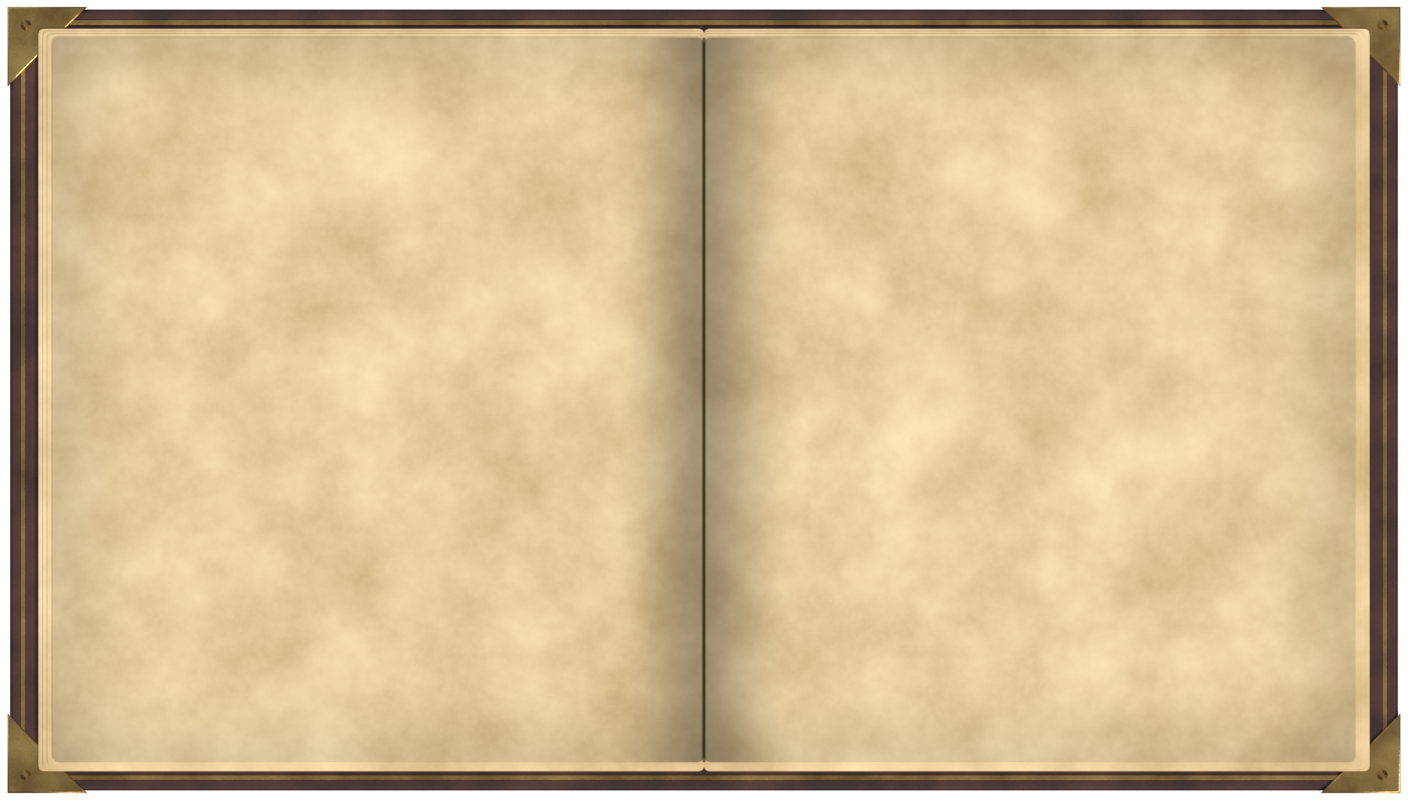
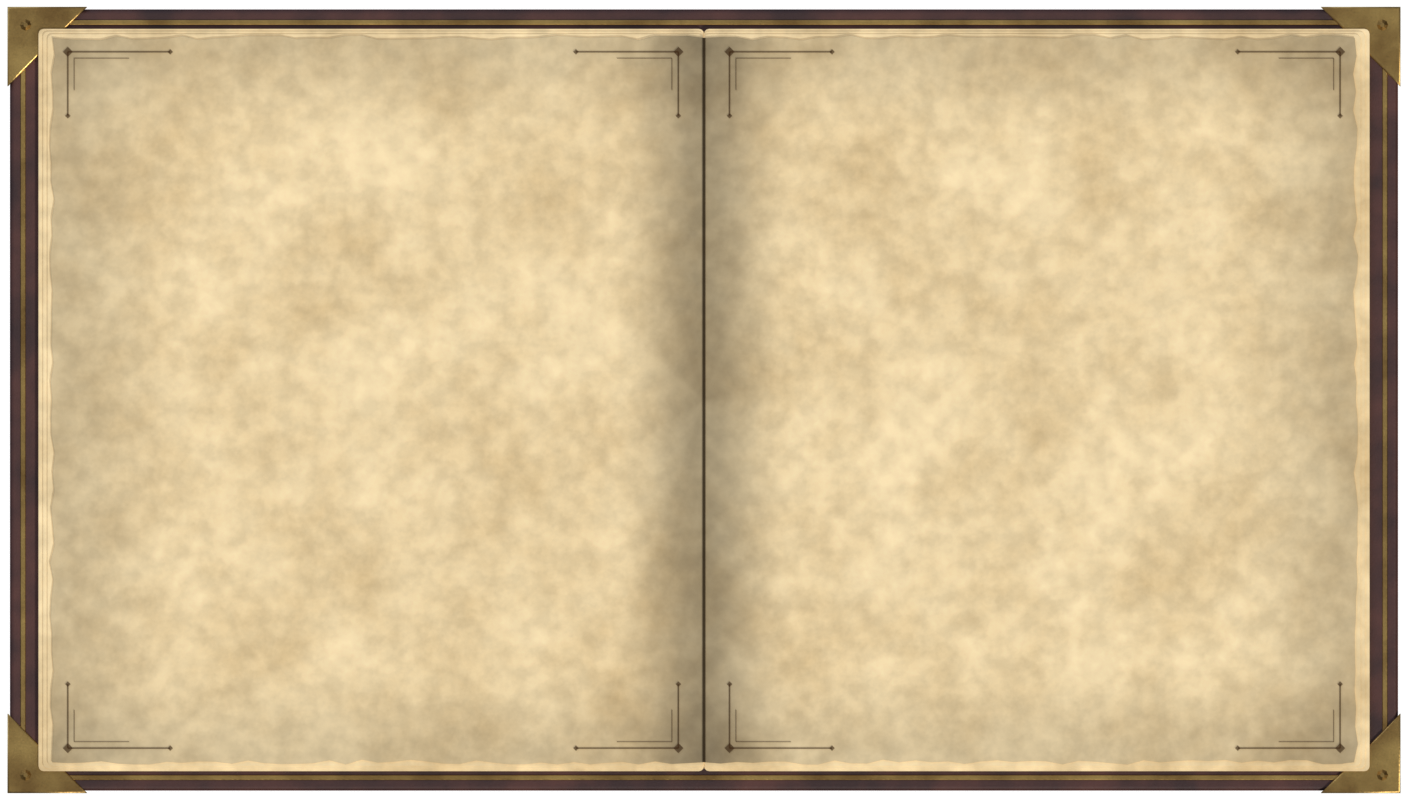
Grimório: pergaminho com bordas gastas e vinhetas; base da etapa 1

diff --git a/tools/blender/ui_kit.py b/tools/blender/ui_kit.py
@@ -4,6 +4,7 @@ de frente em PNG com fundo transparente. Ver docs/INTERFACE_GRIMORIO.md.
   blender --background --factory-startup --python tools/blender/ui_kit.py -- <pasta de saída>
 """
 import math
+import random
 import sys
 
 import bpy
@@ -234,18 +235,34 @@ def paper(name="paper", shade=True):
     stain.inputs["Roughness"].default_value = 0.65
     nt.links.new(tc.outputs["Object"], stain.inputs["Vector"])
     ramp = nt.nodes.new("ShaderNodeValToRGB")
-    ramp.color_ramp.elements[0].position = 0.3
+    ramp.color_ramp.elements[0].position = 0.22
     ramp.color_ramp.elements[0].color = (0.5, 0.34, 0.15, 1)
-    ramp.color_ramp.elements[1].position = 0.68
+    ramp.color_ramp.elements[1].position = 0.6
     ramp.color_ramp.elements[1].color = (0.78, 0.6, 0.33, 1)
     nt.links.new(stain.outputs["Fac"], ramp.inputs[0])
     col = ramp.outputs[0]
+    # segunda camada: manchas miúdas, como papel que pegou umidade
+    spots = nt.nodes.new("ShaderNodeTexNoise")
+    spots.inputs["Scale"].default_value = 6.0
+    spots.inputs["Detail"].default_value = 5
+    nt.links.new(tc.outputs["Object"], spots.inputs["Vector"])
+    sr = nt.nodes.new("ShaderNodeMapRange")
+    sr.inputs["From Min"].default_value = 0.35
+    sr.inputs["From Max"].default_value = 0.65
+    sr.inputs["To Min"].default_value = 0.82
+    sr.inputs["To Max"].default_value = 1.0
+    nt.links.new(spots.outputs["Fac"], sr.inputs["Value"])
+    sm = nt.nodes.new("ShaderNodeVectorMath")
+    sm.operation = "SCALE"
+    nt.links.new(col, sm.inputs[0])
+    nt.links.new(sr.outputs[0], sm.inputs["Scale"])
+    col = sm.outputs[0]
     if shade:
         # escurece junto da lombada e nas bordas da página
         sep = nt.nodes.new("ShaderNodeSeparateXYZ")
         nt.links.new(tc.outputs["Object"], sep.inputs[0])
         fac = None
-        for axis, lo, hi, a, bb in [("X", 0.0, 0.75, 0.42, 1.0), ("X", 4.3, 5.1, 1.0, 0.78), ("Y", 2.2, 2.85, 1.0, 0.8)]:
+        for axis, lo, hi, a, bb in [("X", 0.0, 0.75, 0.42, 1.0), ("X", 4.0, 5.1, 1.0, 0.7), ("Y", 2.0, 2.85, 1.0, 0.74)]:
             ab = nt.nodes.new("ShaderNodeMath")
             ab.operation = "ABSOLUTE"
             nt.links.new(sep.outputs[axis], ab.inputs[0])
@@ -282,6 +299,41 @@ def paper(name="paper", shade=True):
     return m
 
 
+def ragged(x0, y0, x1, y1, n=40, amp=0.02, seed=1):
+    """Retângulo de página com as bordas de fora irregulares (papel gasto); o lado da lombada (x0) é reto."""
+    rnd = random.Random(seed)
+    j = lambda: rnd.uniform(-amp, amp)
+    pts = [(x0, y0)]
+    pts += [(x0 + (x1 - x0) * i / n, y0 + j()) for i in range(1, n)]
+    pts += [(x1 + j(), y0 + (y1 - y0) * i / n) for i in range(n + 1)]
+    pts += [(x1 - (x1 - x0) * i / n, y1 + j()) for i in range(1, n)]
+    pts += [(x0, y1)]
+    return pts
+
+
+def stroke(a, b, w):
+    """Traço reto de largura w entre dois pontos."""
+    dx, dy = b[0] - a[0], b[1] - a[1]
+    ln = math.hypot(dx, dy)
+    nx, ny = -dy / ln * w * 0.5, dx / ln * w * 0.5
+    return [(a[0] + nx, a[1] + ny), (b[0] + nx, b[1] + ny), (b[0] - nx, b[1] - ny), (a[0] - nx, a[1] - ny)]
+
+
+def diamond(x, y, r):
+    return [(x - r, y), (x, y + r), (x + r, y), (x, y - r)]
+
+
+def vignette(cx, cy, dx, dy, ink):
+    """Cantoneira a tinta: dois traços saindo do canto (cx, cy) para dentro da página, com losangos."""
+    lx, ly = 0.8, 0.5
+    loops = [stroke((cx, cy), (cx + dx * lx, cy), 0.012), stroke((cx, cy), (cx, cy + dy * ly), 0.012),
+             stroke((cx + dx * 0.05, cy + dy * 0.05), (cx + dx * lx * 0.6, cy + dy * 0.05), 0.006),
+             stroke((cx + dx * 0.05, cy + dy * 0.05), (cx + dx * 0.05, cy + dy * ly * 0.6), 0.006),
+             diamond(cx, cy, 0.04), diamond(cx + dx * lx, cy, 0.022), diamond(cx, cy + dy * ly, 0.022)]
+    for i, lp in enumerate(loops):
+        shape("vig", [lp], ink, 0.158 + i * 0.0002, 0.003, 0.0)
+
+
 def cloth(name, base, dark, rough=0.7):
     m = metal(name, base, dark, 0.0, rough)
     return m
@@ -306,7 +358,12 @@ def book():
             hy = 2.9 - i * 0.02
             pts = rrect(0.0, -hy, x1, hy, 0.04, 3)
             shape("leaf", [xf(pts, sx=sx)], paper("paper_edge", False), 0.1 + i * 0.012, 0.012, 0.004)
-        shape("page", [xf(rrect(0.0, -2.83, 5.09, 2.83, 0.05, 3), sx=sx)], paper(), 0.14, 0.014, 0.005)
+        shape("page", [xf(ragged(0.0, -2.83, 5.09, 2.83, seed=3 if sx > 0 else 7), sx=sx)], paper(), 0.14, 0.014, 0.005)
+        # vinhetas nos quatro cantos da página, fora da área de conteúdo (margens de BookLayout)
+        ink = flat("ink", (0.05, 0.022, 0.008), 0.42)
+        for sy in (-1, 1):
+            vignette(sx * 4.97, sy * 2.72, -sx, -sy, ink)
+            vignette(sx * 0.2, sy * 2.72, sx, -sy, ink)
     shape("gutter", [rect(0.012, 2.83)], flat("gutter", (0.02, 0.012, 0.006), 0.55), 0.16, 0.004, 0.0)
     render("book")
 

diff --git a/docs/INTERFACE_GRIMORIO.md b/docs/INTERFACE_GRIMORIO.md
@@ -1,6 +1,6 @@
 # Interface "grimório" — o que aprendemos e plano de migração
 
-Estado em 14/11/2026, branch `ui-teste` (teste descartável, sem commit). O HUD de jogo fica como está.
+Estado em 14/11/2026, branch `ui-teste`: a base (etapa 1) está pronta; as telas migram uma etapa por vez. O HUD de jogo fica como está.
 Todo o resto da interface (menus, inventário, lojas, ofícios, diálogos, telas da colônia e da Horda) migra
 para a aparência de um livro: páginas de pergaminho, texto a tinta, abas de marcador.
 
@@ -56,19 +56,31 @@ descartados: o primeiro fica "vetorial" demais, o segundo é caro para ornamento
 9. **Blender:** metal precisa de mundo com degradê para refletir algo; papel precisa de um pouco de emissão
    para não sair escuro; `use_nodes` está marcado para sair no Blender 6.
 
-## O que existe no teste
+## O que existe
 
 | Peça | Onde |
 |---|---|
-| Livro aberto, abas de marcador (PNG) | `assets/ui/book.png`, `tab_on.png`, `tab_off.png` |
-| Gerador das peças | `tools/blender/ui_kit.py` (`--book` gera só o livro e as abas) |
-| Cores de tinta, `ink()`, `paper_theme()` | `scripts/ui/ui_theme.gd` |
+| Livro aberto e abas de marcador (PNG) | `assets/ui/book.png`, `tab_on.png`, `tab_off.png` |
+| Gerador das imagens | `tools/blender/ui_kit.py` |
+| Medidas do livro, regra "cabe na página", escala para janela pequena | `scripts/ui/book_layout.gd` |
+| Janela-livro: abas, fechar, rolagem, aviso de página grande demais | `scripts/ui/book_window.gd` |
+| Tema de papel, cores de tinta, `ink()`, `ink_section()`, `ink_bar()`, `ink_inset()` | `scripts/ui/ui_theme.gd` |
 | Espaço de item sobre papel (`paper = true`) | `scripts/ui/item_slot.gd` |
-| Ícones 3D | `scripts/ui/item_icons.gd` |
-| Inventário em duas páginas | `scripts/ui/game_menu.gd` |
+| Ícones 3D, guardados em `user://icons/<versão>` | `scripts/ui/item_icons.gd`, `scripts/ui/icon_cache.gd` |
+| Menu do herói (Inventário a tinta; Personagem e Missões ainda em painéis escuros) | `scripts/ui/game_menu.gd` |
 
-As peças de aço do primeiro teste (`window.png`, `inset.png`, `slot.png`, `button_*.png`, `crest.png`,
-`forged_theme()`, `forged = true`) continuam no branch e saem na etapa 1.
+Para criar uma tela nova no livro:
+
+```gdscript
+var book := BookWindow.new()
+add_child(book)
+book.add_page("Loja", "", "", minha_pagina)      # título, tecla na aba, ação de entrada, conteúdo
+book.closed.connect(_close)
+book.show_page(0)
+```
+
+Uma página ocupa `BookLayout.content_room()` (1232×676); cada metade tem `page_room()` (574×676) e as duas
+ficam separadas por `BookLayout.SPINE`. Conteúdo maior rola e gera um aviso no log.
 
 ## Plano de migração
 
@@ -76,8 +88,8 @@ Cada etapa é um PR, sai com as capturas das telas tocadas e com `/smoke-check` 
 
 | Etapa | O que | Telas | Estado |
 |---|---|---|---|
-| 0 | Teste no inventário | `game_menu.gd` (aba Inventário) | feito, descartável |
-| 1 | **Base.** Refazer o teste como código de verdade: componente `BookWindow` (livro, margens, abas, fechar, aviso de tamanho), tema de papel completo (lista, abas, barra, deslizador, campo de texto), fonte embutida, remover as peças de aço | `ui_theme.gd`, `item_slot.gd`, `item_icons.gd`, novo `book_window.gd` | a fazer |
+| 0 | Teste no inventário | `game_menu.gd` (aba Inventário) | feito |
+| 1 | **Base.** Refazer o teste como código de verdade: componente `BookWindow` (livro, margens, abas, fechar, aviso de tamanho), tema de papel completo (lista, abas, barra, deslizador, campo de texto), fonte embutida, remover as peças de aço | `ui_theme.gd`, `item_slot.gd`, `item_icons.gd`, novo `book_window.gd` | feito (falta a fonte embutida) |
 | 2 | **Menu do herói inteiro no livro:** Inventário, Personagem e Missões a tinta; atalhos I/C/J de volta nas abas; dica de item em pergaminho | `game_menu.gd`, `item_tooltip.gd`, `skill_icon.gd` | a fazer |
 | 3 | **Ícones dos itens sem modelo:** poções, comida, anéis, amuletos, orbe, aljava, materiais, sementes | `icon_painter.gd`, `item_icons.gd` | a fazer |
 | 4 | **Comércio e ofícios:** loja, encantamento do ferreiro, cozinha, horta | `shop_ui.gd`, `enchant_ui.gd`, `cooking_ui.gd`, `plant_ui.gd` | a fazer |
@@ -98,8 +110,8 @@ Ficam como estão: `hud.gd`, `hub_hud.gd`, `survival_hud.gd`, `colony_hud.gd`, `
 - **Fonte embutida** em `assets/fonts` (hoje o título usa a serifada que o Windows tiver).
 - **Pergaminho melhor:** bordas gastas, manchas mais fortes, uma vinheta desenhada nos cantos da página.
 - **Ícones 3D sem espera:** gerar em lote na primeira abertura e guardar em `user://` por versão do jogo.
-- **Testes:** `tests/smoke_test.gd:2356` exige mochila com 54 espaços ou mais; o teste tem 48 (8 colunas).
-  Ou a mochila volta a ter 54+ ou a verificação muda junto.
+- **Testes:** o smoke test confere que as três abas ficam dentro das páginas e que nenhuma pede mais espaço
+  do que o livro tem; a mochila tem 56 espaços (8 colunas, 7 linhas, com rolagem).
 
 ## Decisões em aberto
 
@@ -108,7 +120,6 @@ Ficam como estão: `hud.gd`, `hub_hud.gd`, `survival_hud.gd`, `colony_hud.gd`, `
 | Qual fonte embutir | Cinzel (títulos) e EB Garamond (texto), licença livre OFL. Precisa baixar os arquivos |
 | Ícones dos itens sem modelo (etapa 3) | Modelar peças simples no Blender e passar pelo mesmo `ItemIcons`, para tudo ter o mesmo traço |
 | Retrato no diálogo (etapa 5) | Câmera 3D no rosto do NPC, como o close que o diálogo já faz, dentro de uma moldura |
-| Tamanho do livro em telas menores que 1600×900 | Encolher o livro inteiro por escala, sem refazer o layout |
 
 ## Ferramentas
 
@@ -116,10 +127,10 @@ Ficam como estão: `hud.gd`, `hub_hud.gd`, `survival_hud.gd`, `colony_hud.gd`, `
 $G = "C:/Tools/Godot/Godot_v4.7.2-stable_win64_console.exe"
 $B = "C:/Program Files/Blender Foundation/Blender 5.2/blender.exe"
 # regenerar o livro e as abas (depois rodar --import)
-& $B --background --factory-startup --python tools/blender/ui_kit.py -- "$PWD/assets/ui" --book
+& $B --background --factory-startup --python tools/blender/ui_kit.py -- "$PWD/assets/ui"
 & $G --headless --path . --import
 # abrir direto numa tela, com o save de demonstração: inv, char, quests, shop, enchant
 & $G --path . res://scenes/world.tscn -- --geardemo --ui=inv
-# captura (delay de 8 s para os ícones 3D ficarem prontos)
+# captura (na primeira vez os ícones 3D levam uns 8 s; depois vêm do disco)
 & $G --path . res://scenes/world.tscn -- --geardemo --ui=inv --shot=shots/inv.png --delay=8
 ```
